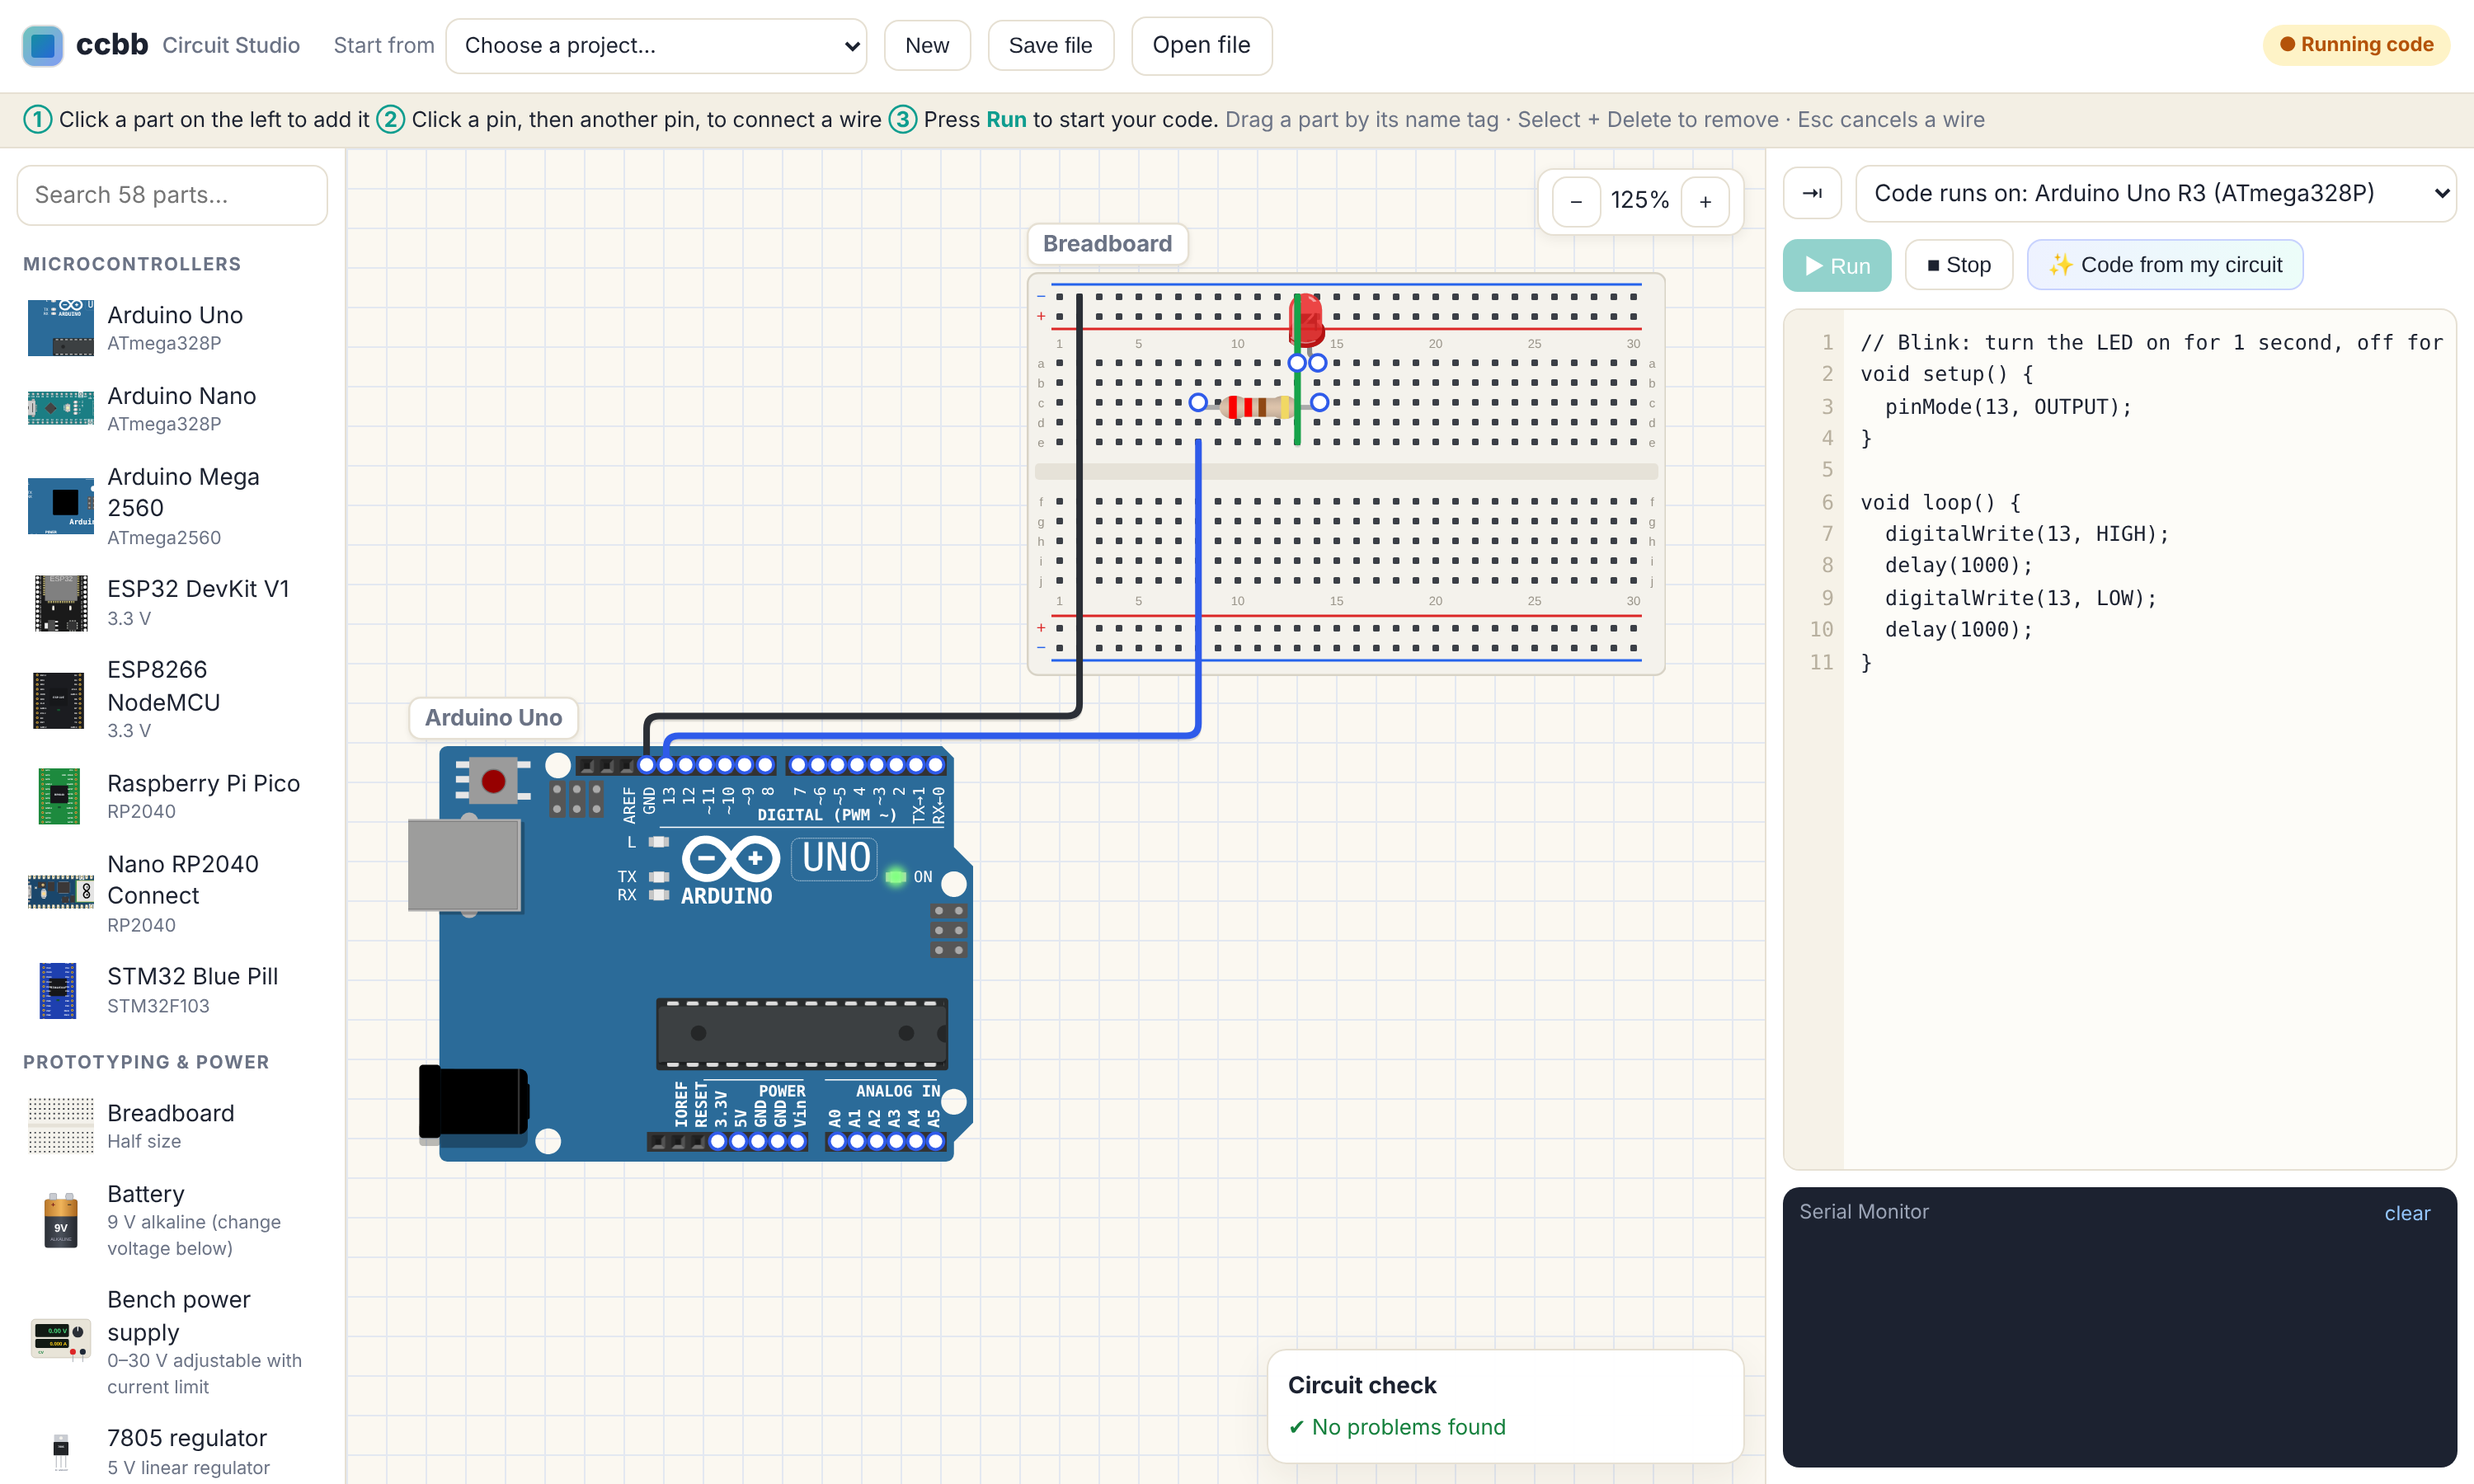
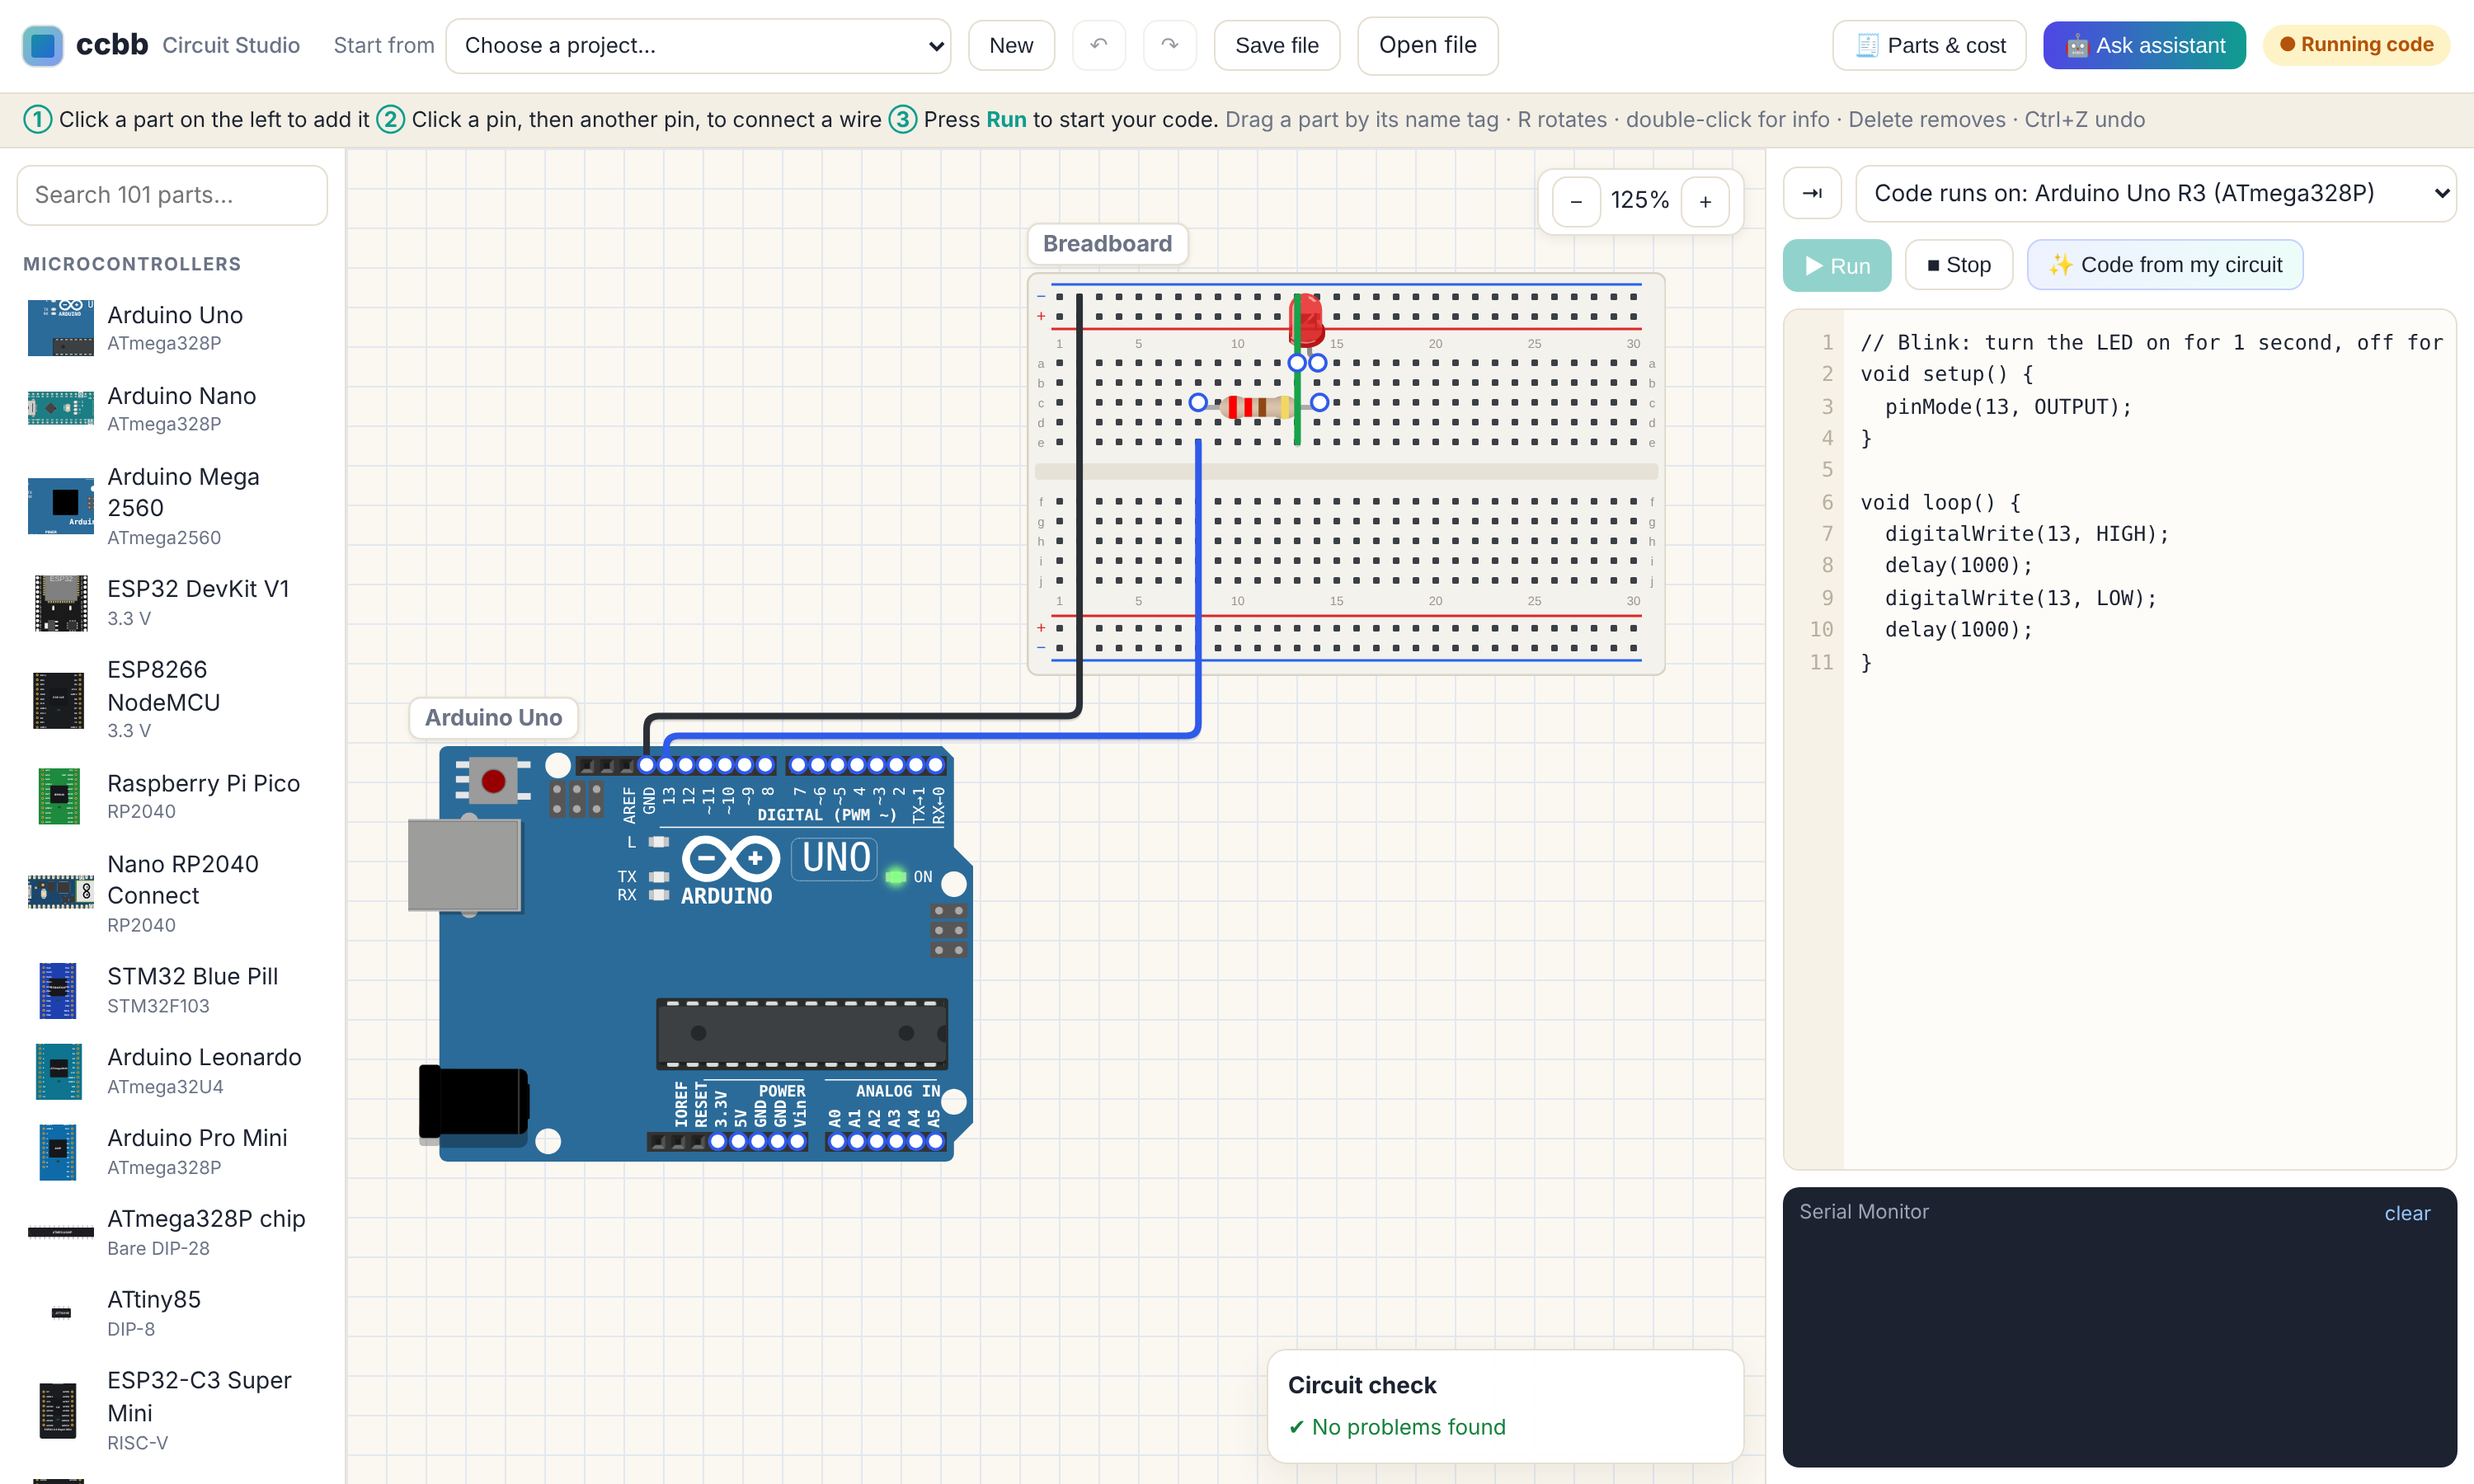
Fix 40-pin chip seating, comment handling in register C, assistant part matching, game tuning; tests
Claude-Session: https://claude.ai/code/session_01GCfRSDwTK6ahEZgw49N2wn

diff --git a/app/ui/catalog.js b/app/ui/catalog.js
@@ -266,9 +266,9 @@ void loop() {
       { id: 'uno1', type: 'uno', x: 30, y: 290, props: {} },
       { id: 'fl1', type: 'flame', x: 470, y: 70, props: { flame: 0 } },
       { id: 'bz1', type: 'buzzer', x: 520, y: 330, props: {} },
-      { id: 'lt1', type: 'lighter', x: 820, y: 90, props: { mode: 'lit' } }],
+      { id: 'lt1', type: 'lighter', x: 820, y: 90, props: { mode: 'off' } }],
     wires: [W('fl1:VCC', 'uno1:5V'), W('fl1:GND', 'uno1:GND.1'), W('fl1:DOUT', 'uno1:2'), W('bz1:1', 'uno1:8'), W('bz1:2', 'uno1:GND.2')],
-    code: `// GAME: drag the lit lighter towards the flame sensor. When it "sees" the flame the alarm sounds.\n// Then move it away. How far away does the sensor still detect it?\nvoid setup() {\n  pinMode(2, INPUT);     // flame sensor DOUT (LOW = flame)\n  pinMode(8, OUTPUT);    // buzzer\n  Serial.begin(9600);\n}\n\nvoid loop() {\n  bool fire = digitalRead(2) == LOW;\n  digitalWrite(8, fire);\n  Serial.println(fire ? "FIRE! FIRE!" : "safe");\n  delay(200);\n}` },
+    code: `// GAME: click the lighter and set it to "lit". The IR flame sensor sees a flame up to ~80 cm away and the alarm sounds.\n// Try the torch instead: does a bright light fool the sensor?\nvoid setup() {\n  pinMode(2, INPUT);     // flame sensor DOUT (LOW = flame)\n  pinMode(8, OUTPUT);    // buzzer\n  Serial.begin(9600);\n}\n\nvoid loop() {\n  bool fire = digitalRead(2) == LOW;\n  digitalWrite(8, fire);\n  Serial.println(fire ? "FIRE! FIRE!" : "safe");\n  delay(200);\n}` },
   gasleak: { name: '15 · Game: gas leak detector (gas can + fan)', parts: [
       { id: 'uno1', type: 'uno', x: 30, y: 290, props: {} },
       { id: 'mq1', type: 'gas', x: 470, y: 60, props: { ppm: 200, threshold: 40 } },
@@ -277,7 +277,7 @@ void loop() {
       { id: 'gc1', type: 'gascan', x: 800, y: 60, props: { on: false } },
       { id: 'fan1', type: 'fan', x: 820, y: 330, props: { on: false } }],
     wires: [W('mq1:VCC', 'uno1:5V'), W('mq1:GND', 'uno1:GND.1'), W('mq1:AOUT', 'uno1:A0'), W('uno1:13', 'r1:1'), W('r1:2', 'led1:A'), W('led1:C', 'uno1:GND.2')],
-    code: `// GAME: click the gas can, switch it to Spraying and drag it close to the MQ-2. The LED warns of a leak.\n// Then switch the fan ON and bring it close: the gas clears.\nconst int LIMIT = 400;\nvoid setup() {\n  pinMode(13, OUTPUT);\n  Serial.begin(9600);\n}\n\nvoid loop() {\n  int gas = analogRead(A0);\n  digitalWrite(13, gas > LIMIT);\n  Serial.print("gas = "); Serial.println(gas);\n  delay(250);\n}` },
+    code: `// GAME: click the gas can, switch it to Spraying and drag it close to the MQ-2. The LED warns of a leak.\n// Then switch the fan ON and bring it close: the gas clears.\nconst int LIMIT = 500;\nvoid setup() {\n  pinMode(13, OUTPUT);\n  Serial.begin(9600);\n}\n\nvoid loop() {\n  int gas = analogRead(A0);\n  digitalWrite(13, gas > LIMIT);\n  Serial.print("gas = "); Serial.println(gas);\n  delay(250);\n}` },
   c51: { name: '16 · 8051 (AT89S52) LED blink in Keil C', parts: [
       { id: 'bat1', type: 'battery', x: 40, y: 140, props: { volts: 4.5, rint: 0.3 } },
       { id: 'bb1', type: 'breadboard', x: 200, y: 60, props: {} },

diff --git a/app/ui/main.js b/app/ui/main.js
@@ -81,7 +81,7 @@ function applyProps(p) {
   host.classList.toggle('burnt', !!p.props.burnt);
   el.style.transform = p.rot ? `rotate(${p.rot}deg)` : '';
 }
-const INSERTABLE = ['resistor', 'led', 'pushbutton', 'pot', 'buzzer', 'switch', 'capacitor', 'ecap', 'diode', 'npn', 'pnp', 'nmos', 'reg7805', 'lm358', 'ne555', 'hc00', 'hc08', 'hc32', 'hc86', 'hc04', 'rgb'];
+const INSERTABLE = ['resistor', 'led', 'pushbutton', 'pot', 'buzzer', 'switch', 'capacitor', 'ecap', 'diode', 'npn', 'pnp', 'nmos', 'reg7805', 'lm358', 'ne555', 'hc00', 'hc08', 'hc32', 'hc86', 'hc04', 'rgb', 'at89s52', 'pic16f877a', 'atmega328', 'attiny85', 'lm35', 'ds18b20', 'zener', 'reed'];
 function placeHost(p) { const h = els.get(p.id).host; h.style.left = p.x + 'px'; h.style.top = p.y + 'px'; }
 const kids = bbId => S.parts.filter(q => S.wires.some(w => w.hidden && w.from.startsWith(q.id + ':') && w.to.startsWith(bbId + ':')));
 function tryInsert(p) {

diff --git a/app/engine/arduino.js b/app/engine/arduino.js
@@ -12,6 +12,7 @@ const FN_TYPES = '(?:void|' + TYPES + ')';
 export function preprocessRegisterC(src, lang) {
   let s = src.replace(/\r/g, '');
   const bits = {};
+  s = s.replace(/\/\*[\s\S]*?\*\//g, '').replace(/\/\/.*$/gm, '');   // comments first, so text in them is never treated as code
   s = s.replace(/^\s*#(include|pragma|use|fuses).*$/gm, '').replace(/^\s*#define\s+_XTAL_FREQ.*$/gm, '');
   if (lang === 'c51') {
     s = s.replace(/\bsbit\s+(\w+)\s*=\s*(P[0-3])\s*\^\s*([0-7])\s*;/g, (m, n, port, b) => { bits[n] = port + '.' + b; return ''; });
